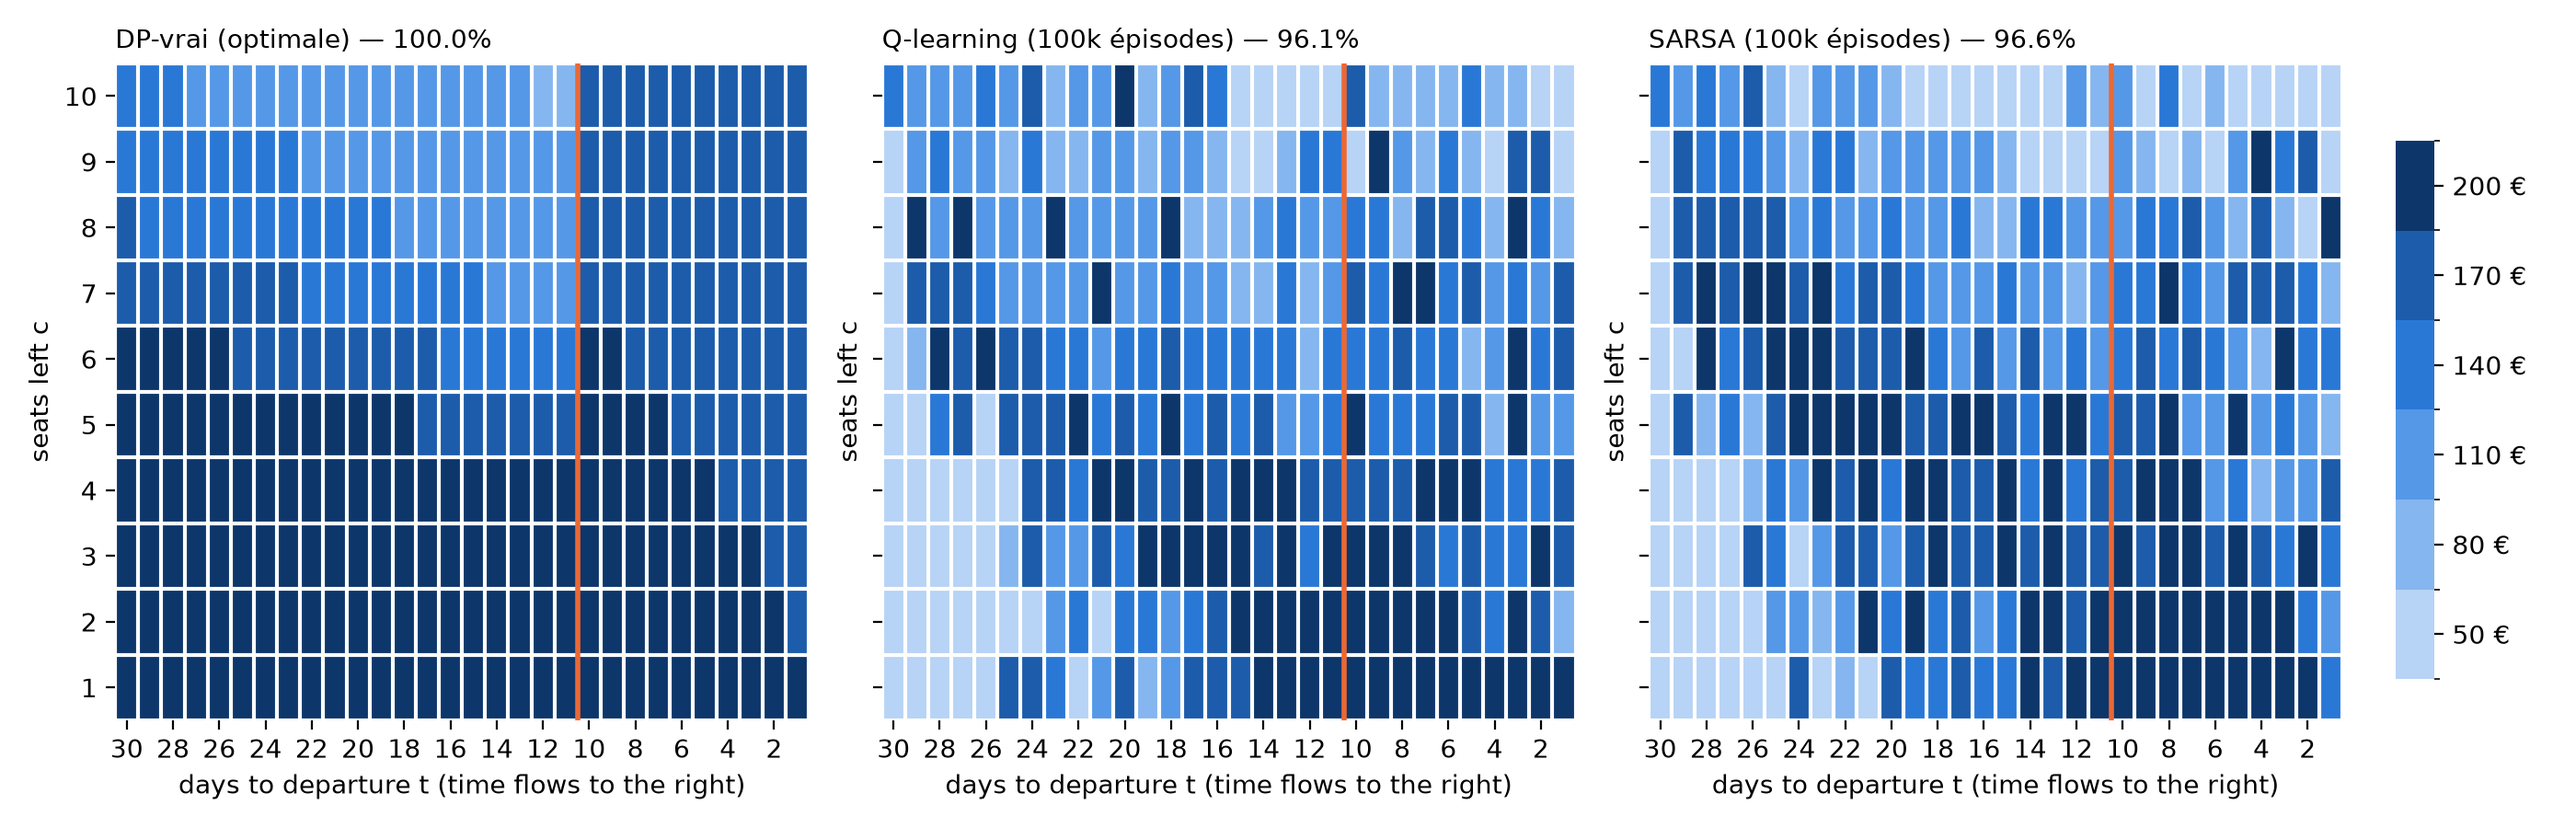
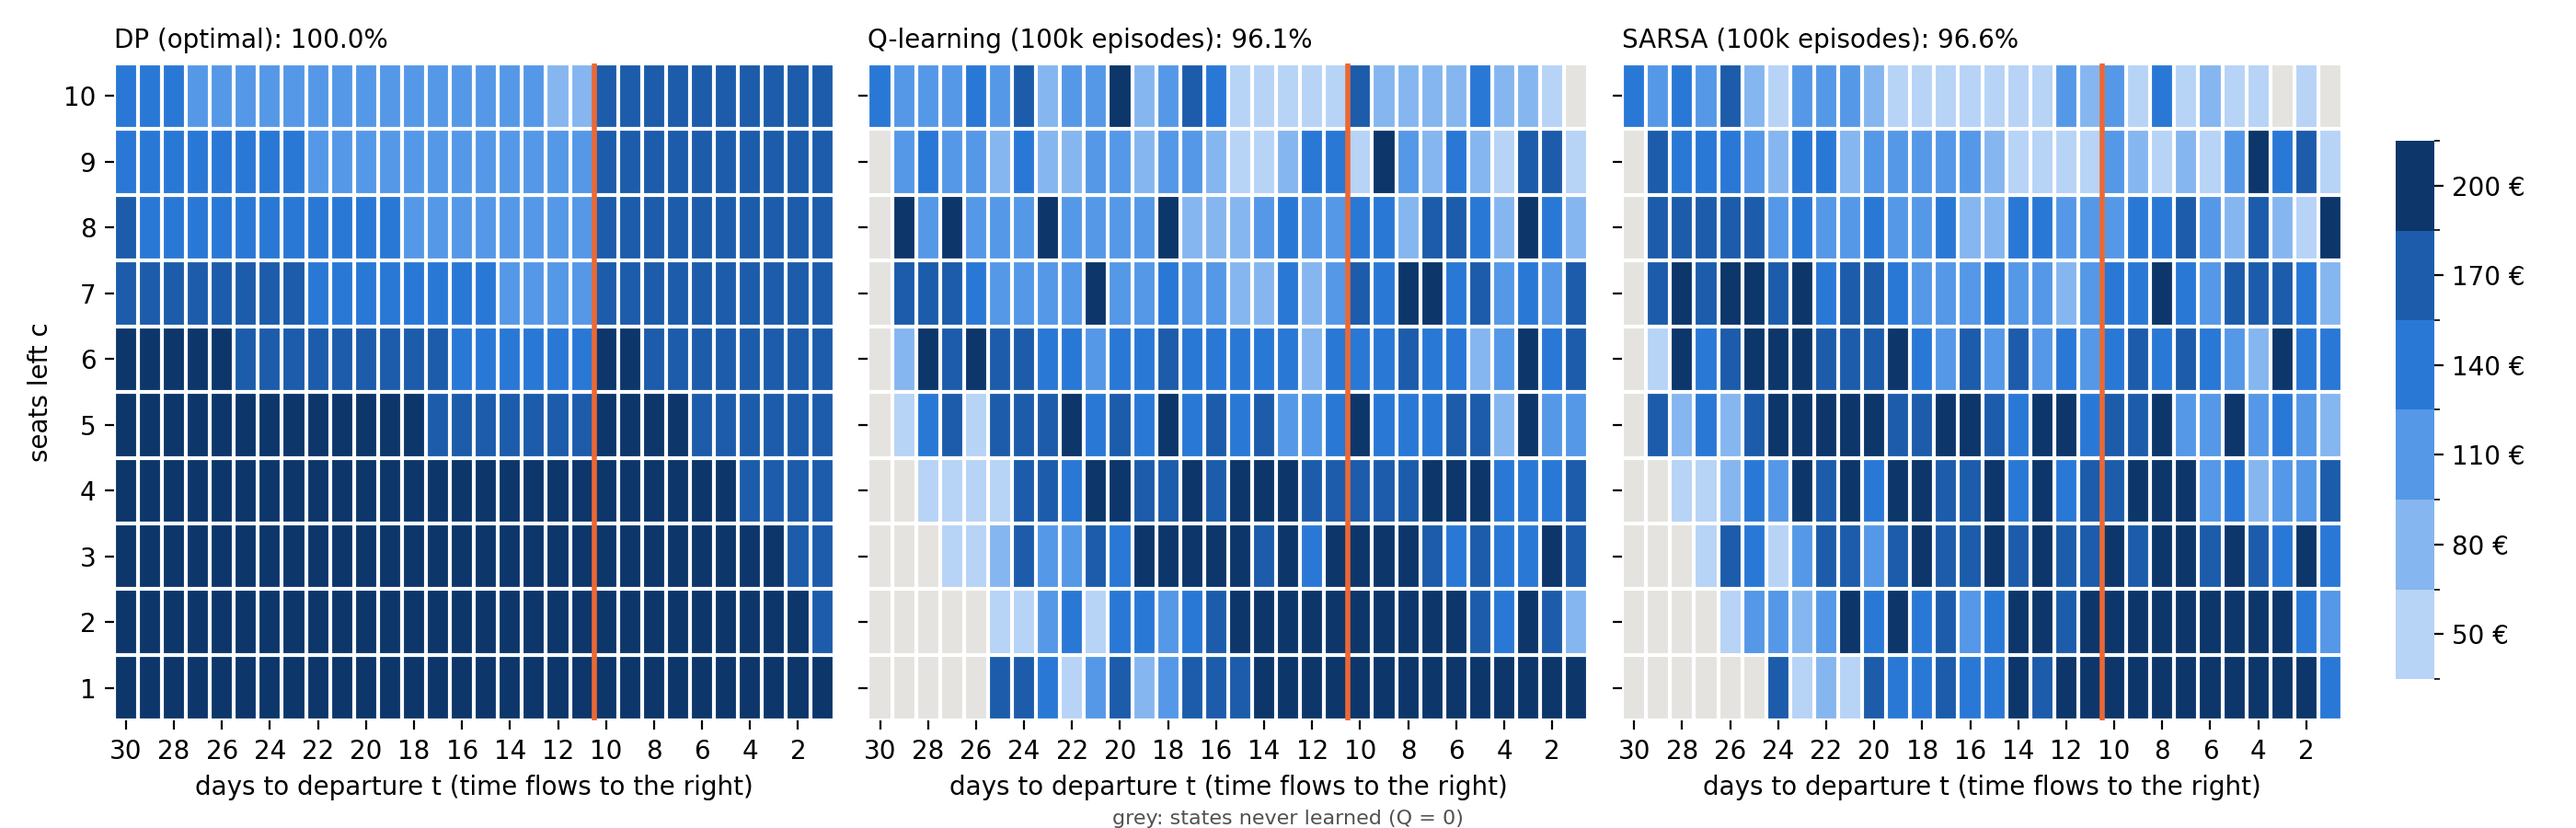
Review of the learning-side results: fix report claims, E4 on 10 seeds, English figures
- E2: correct the episode budgets at which RL beats the wrong-model DP.
- Report: RL plateaus at 96.4%, below the rising-price heuristic (97.7%);
  state the tuning criterion; avoid the t/T notation clash for alpha.
- E4: rerun Q-learning with 10 seeds (decision D5).
- E3: grey out states never learned (Q = 0).
- E1, E2, E3, E4 figures in English; E1 shows the rising-price reference
  and can be replotted from the saved results without retraining.

diff --git a/report/report.tex b/report/report.tex
@@ -53,7 +53,7 @@ We use $C=10$ seats: with 20, the plane almost never sells out and a myopic poli
 \textbf{DP.} Bellman optimality, $V^*(c,t)=\max_a \sum_{k} P(k\mid c,t,a)\,[p_a k+\gamma V^*(c-k,t-1)]$, with $V^*(c,0)=V^*(0,t)=0$.
 As $V^*(\cdot,t)$ only depends on $V^*(\cdot,t-1)$, one backward sweep is exact.
 \textbf{Model error.} The DP plans with both WTP means multiplied by $(1+x)$, $x\in[-50,+50]\,\%$ (an error on $\lambda$ costs at most 5\,\%).
-\textbf{Q-learning, SARSA.} Tabular, $Q=0$, $\varepsilon$-greedy with $\varepsilon$ decaying exponentially from 1 to 0.01 over the episode budget; $\alpha_t = 0.5/(1+40\,t/T)$ with $T$ the budget (a constant $\alpha$ does not converge in this stochastic environment: Q-values keep oscillating and the greedy action flips); they only interact with the simulator, never with the demand model.
+\textbf{Q-learning, SARSA.} Tabular, $Q=0$, $\varepsilon$-greedy with $\varepsilon$ decaying exponentially from 1 to 0.01 over the episode budget; $\alpha_n = 0.5/(1+40\,n/N)$ at episode $n$ of a budget of $N$ (a constant $\alpha$ does not converge in this stochastic environment: Q-values keep oscillating and the greedy action flips). These values were selected among 9 configurations by the best worst case over seeds. Both methods only interact with the simulator, never with the demand model.
 \textbf{Baselines.} Best fixed price; best linearly rising price.
 \textbf{Evaluation.} All policies are scored on the \emph{true} model by exact policy evaluation (cross-checked with 10\,000 simulated flights), as a percentage of the optimal revenue; learning methods use 10 seeds.
 Checks: the DP value lies in the 95\,\% confidence interval of its simulated revenue; no wrong-model DP or baseline beats it.
@@ -90,8 +90,8 @@ A rising price already reaches 97.7\,\% (Table~\ref{tab:main}), consistent with 
 
 \textbf{E2: tipping point between planning and learning} (Fig.~\ref{fig:e2}). The DP stays above 97\,\% for $|x|\le20\,\%$.
 Errors are asymmetric: underestimating the WTP ($x=-50\,\%$) drops DP to 75.8\,\% because seats sell out too cheaply, against 92.9\,\% at $+50\,\%$.
-Consequently, model-free RL beats wrong DP as soon as $x \le -40\,\%$ with merely $1\,000$ episodes, and at $x = -30\,\%$ with $10\,000$ episodes.
-Conversely, when WTP is overestimated, DP is resilient and RL only prevails for $x \ge +40\,\%$ with large budgets ($\ge 30\,000$ episodes).
+Model-free RL therefore beats the wrong DP (by more than 0.5 point) with $1\,000$ episodes at $x=-50\,\%$, $3\,000$ at $-40\,\%$ and $10\,000$ at $-30\,\%$.
+When the WTP is overestimated, the DP is more resilient: RL only wins at $+40\,\%$ ($30\,000$ episodes) and $+50\,\%$ ($10\,000$). For $-20\,\%\le x\le+30\,\%$, the DP wins or ties at every budget.
 
 \begin{figure}[t]
 \centering
@@ -101,14 +101,15 @@ Conversely, when WTP is overestimated, DP is resilient and RL only prevails for 
 \end{figure}
 
 \textbf{E4: discount factor.} A DP optimising a discounted criterion sells seats too early: with $\gamma=0.5$ it sells 6.8 seats before business customers arrive (4.1 with $\gamma=1$) and earns 83.7\,\% of the optimum (97.8\,\% with $\gamma=0.9$).
-Q-learning exhibits the exact same myopia, dropping from 95.7\,\% ($\gamma=1$) to 89.6\,\% ($\gamma=0.9$) and 74.2\,\% ($\gamma=0.5$), selling 7.1 seats prematurely.
+Q-learning (30\,000 episodes, 10 seeds) shows the same myopia: 95.6\,\% ($\gamma=1$), 89.7\,\% ($\gamma=0.9$) and 74.7\,\% ($\gamma=0.5$), selling 7.1 seats before business customers arrive.
 
-\textbf{E1 \& E3: learning budget and policy heatmaps.} Q-learning reaches 95\,\% of the optimum from 30\,000 episodes on average over 10 seeds (95.6\,\% $\pm$ 0.5), and both Q-learning and SARSA plateau at 96.4\,\% at 100\,000 episodes.
+\textbf{E1 \& E3: learning budget and policy heatmaps.} Q-learning reaches 95\,\% of the optimum from 30\,000 episodes on average over 10 seeds (95.6\,\% $\pm$ 0.5), and both Q-learning and SARSA plateau at 96.4\,\% at 100\,000 episodes, still below the rising-price heuristic (97.7\,\%).
 Off-policy Q-learning converges faster at intermediate budgets (93.6\,\% vs 91.0\,\% at 10k), while SARSA has lower variance at convergence (0.3 vs 0.7\,\%).
-Heatmaps confirm that RL captures the structure of the optimal policy but retains noise in rarely visited boundary states.
+Heatmaps show that RL captures the structure of the optimal policy; 21 of the 300 states (few seats left very early) are never learned because they are almost never reached, and rarely visited states remain noisy at little cost in revenue.
 
 \section{Conclusion}
-Learning outperforms planning only when model error exceeds 25--30\,\% in under-estimation or 40\,\% in over-estimation, given sufficient data ($\ge 10^4$ flights). When model error is moderate ($|x|\le20\,\%$) or data is scarce, planning with an imperfect model strictly beats model-free learning.
+Learning outperforms planning only for large model errors: an under-estimation of the WTP by 30\,\% or more (with $10^3$ to $10^4$ flights), or an over-estimation by 40\,\% or more ($10^4$ to $3\cdot10^4$ flights). For moderate errors ($-20\,\%\le x\le+30\,\%$) or scarce data, planning with an imperfect model beats model-free learning.
+Even with $10^5$ flights, tabular RL stays below a simple rising-price rule tuned on the true model: the value of planning (or of a good model) lies in the last few percent.
 \textbf{Limitations and perspective:} synthetic demand, one perturbed parameter, tabular methods; realistic aircraft would require value function approximation.
 
 {\small

diff --git a/experiments/e1_convergence.py b/experiments/e1_convergence.py
@@ -6,6 +6,7 @@ on entraîne Q-learning ET SARSA avec les mêmes hyperparamètres,
 puis on évalue EXACTEMENT la politique gloutonne sur le vrai modèle.
 
 Lancer depuis la racine du repo :  python experiments/e1_convergence.py
+(si results/e1_convergence.csv existe, la figure est seulement redessinée ; --rerun pour tout recalculer)
 Sorties : results/e1_convergence.csv  et  results/figures/e1_convergence.png
 """
 
@@ -23,6 +24,7 @@ ROOT = os.path.join(os.path.dirname(__file__), "..")
 sys.path.insert(0, os.path.join(ROOT, "src"))
 from demand import DemandModel  # noqa: E402
 from dp import solve_dp  # noqa: E402
+from baselines import best_rising_price  # noqa: E402
 from evaluate import evaluate_exact  # noqa: E402
 from qlearning import greedy_policy, train_qlearning  # noqa: E402
 from sarsa import train_sarsa  # noqa: E402
@@ -41,9 +43,12 @@ METHODS = {
     "sarsa": train_sarsa,
 }
 
+csv_path = os.path.join(ROOT, "results", "e1_convergence.csv")
+RERUN = "--rerun" in sys.argv or not os.path.exists(csv_path)
+
 rows = []
 t0 = time.time()
-for method_name, train_fn in METHODS.items():
+for method_name, train_fn in (METHODS.items() if RERUN else []):
     print(f"\n=== {method_name.upper()} ===")
     for budget in BUDGETS:
         pcts = []
@@ -58,13 +63,18 @@ for method_name, train_fn in METHODS.items():
         print(f"  budget={budget:>7} -> {np.mean(pcts):5.1f}% ± {np.std(pcts):4.1f} "
               f"(min {np.min(pcts):5.1f}%)  [{time.time() - t0:.0f}s]")
 
-# --- Sauvegarde CSV ---
+# --- Sauvegarde CSV (ou relecture si on ne fait que redessiner) ---
 os.makedirs(os.path.join(ROOT, "results", "figures"), exist_ok=True)
-csv_path = os.path.join(ROOT, "results", "e1_convergence.csv")
-with open(csv_path, "w", newline="") as f:
-    w = csv.DictWriter(f, fieldnames=rows[0].keys())
-    w.writeheader()
-    w.writerows(rows)
+if RERUN:
+    with open(csv_path, "w", newline="") as f:
+        w = csv.DictWriter(f, fieldnames=rows[0].keys())
+        w.writeheader()
+        w.writerows(rows)
+else:
+    with open(csv_path, encoding="utf-8") as f:
+        rows = [{"method": r["method"], "budget": int(r["budget"]), "seed": int(r["seed"]),
+                 "revenue": float(r["revenue"]), "pct_optimum": float(r["pct_optimum"])} for r in csv.DictReader(f)]
+    print(f"Figure redessinée à partir de {os.path.normpath(csv_path)} (--rerun pour tout recalculer)")
 
 # --- Figure comparative ---
 BLUE, ORANGE, GRID = "#2a78d6", "#e67e22", "#e4e3df"
@@ -76,21 +86,24 @@ for method_name, color, marker in [("qlearning", BLUE, "o"), ("sarsa", ORANGE, "
     stds = [np.std([r["pct_optimum"] for r in method_rows if r["budget"] == b]) for b in BUDGETS]
     ax.errorbar(BUDGETS, means, yerr=stds, color=color, linewidth=2,
                 marker=marker, markersize=6, markeredgecolor="white", markeredgewidth=1,
-                capsize=3, label=f"{method_name} (± 1σ, 10 seeds)")
+                capsize=3, label=f"{'Q-learning' if method_name == 'qlearning' else 'SARSA'} (mean ± 1 sd, 10 seeds)")
 
+rising_pct = 100 * best_rising_price(true_model)[1].revenue / optimum
+ax.axhline(rising_pct, color="#52514e", linewidth=1.2, linestyle=(0, (1, 2)))
+ax.text(BUDGETS[0], rising_pct + 0.3, f"best rising price: {rising_pct:.1f}%", fontsize=8, color="#52514e", va="bottom")
 ax.axhline(95, color="grey", linewidth=1, linestyle="--", alpha=0.6)
-ax.text(BUDGETS[0], 95.5, "95 % de l'optimum", fontsize=8, color="grey")
+ax.text(BUDGETS[0], 95.5, "95% of optimum", fontsize=8, color="grey")
 ax.axhline(100, color="grey", linewidth=0.8, linestyle=":", alpha=0.4)
 ax.set_xscale("log")
-ax.set_xlabel("Budget d'épisodes d'entraînement")
-ax.set_ylabel("Revenu (% de l'optimum DP-vrai)")
+ax.set_xlabel("training episodes (log scale)")
+ax.set_ylabel("revenue (% of optimum)")
 ax.set_ylim(55, 101)
 for s in ("top", "right"):
     ax.spines[s].set_visible(False)
 ax.spines["left"].set_color(GRID); ax.spines["bottom"].set_color(GRID)
 ax.grid(axis="y", color=GRID, linewidth=0.8); ax.set_axisbelow(True)
 ax.legend(frameon=False, fontsize=9)
-ax.set_title("E1 : Convergence Q-learning vs SARSA", loc="left", fontsize=10)
+ax.set_title("E1: learning curves of Q-learning and SARSA", loc="left", fontsize=10)
 fig.tight_layout()
 fig_path = os.path.join(ROOT, "results", "figures", "e1_convergence.png")
 fig.savefig(fig_path, dpi=200)

diff --git a/experiments/e2_crossover.py b/experiments/e2_crossover.py
@@ -94,13 +94,6 @@ else:
             rl_results[(method_name, budget)] = mean_pct
             print(f"  budget={budget:>7} -> {mean_pct:.1f}% ± {np.std(pcts):.1f}%  [{time.time()-t0:.0f}s]")
 
-        for x in ERRORS:
-            ql_pct = rl_results.get(("qlearning", budget), 0)
-            sa_pct = rl_results.get(("sarsa", budget), 0)
-            best_rl = max(ql_pct, sa_pct)
-            best_rl_name = "qlearning" if ql_pct >= sa_pct else "sarsa"
-            dp_pct = dp_results[x]
-            winner = best_rl_name if best_rl > dp_pct else "dp_faux"
 
 # Construire le CSV final avec toutes les combinaisons
 csv_rows = []
@@ -135,7 +128,7 @@ fig, ax = plt.subplots(figsize=(8.5, 4.5))
 errors_pct = 100 * ERRORS
 dp_curve = [dp_results[x] for x in ERRORS]
 ax.plot(errors_pct, dp_curve, color=RED, linewidth=2.5, marker="D", markersize=5,
-        markeredgecolor="white", markeredgewidth=1, label="DP avec modèle faux", zorder=3)
+        markeredgecolor="white", markeredgewidth=1, label="DP with wrong model", zorder=3)
 
 # Lignes horizontales Q-learning et SARSA pour quelques budgets clés
 styles = [(1_000, ":", 1.2), (3_000, "--", 1.5), (10_000, "--", 1.8), (30_000, "-", 2.0), (100_000, "-", 2.2)]
@@ -147,8 +140,8 @@ for budget, ls, lw in styles:
     ax.axhline(sa_pct, color=ORANGE, linewidth=lw, linestyle=ls, alpha=0.7)
     ax.text(errors_pct[-1] + 8, sa_pct, f"SA {budget//1000}k", fontsize=7, color=ORANGE, va="center")
 
-ax.set_xlabel("Erreur x sur la WTP dans le modèle (%)")
-ax.set_ylabel("Revenu (% de l'optimum)")
+ax.set_xlabel("error x on willingness to pay in the model (%)")
+ax.set_ylabel("revenue (% of optimum)")
 ax.set_ylim(60, 101)
 ax.set_xlim(errors_pct[0] - 2, errors_pct[-1] + 15)
 for s in ("top", "right"):
@@ -159,12 +152,12 @@ ax.grid(axis="y", color=GRID, linewidth=0.8); ax.set_axisbelow(True)
 # Légende
 from matplotlib.lines import Line2D  # noqa: E402
 legend_elements = [
-    Line2D([0], [0], color=RED, linewidth=2.5, marker="D", markersize=5, markeredgecolor="white", label="DP-faux"),
-    Line2D([0], [0], color=BLUE, linewidth=1.5, label="Q-learning (horizontal = indép. de x)"),
-    Line2D([0], [0], color=ORANGE, linewidth=1.5, label="SARSA (horizontal = indép. de x)"),
+    Line2D([0], [0], color=RED, linewidth=2.5, marker="D", markersize=5, markeredgecolor="white", label="DP with wrong model"),
+    Line2D([0], [0], color=BLUE, linewidth=1.5, label="Q-learning (does not depend on x)"),
+    Line2D([0], [0], color=ORANGE, linewidth=1.5, label="SARSA (does not depend on x)"),
 ]
 ax.legend(handles=legend_elements, frameon=False, fontsize=8, loc="lower left")
-ax.set_title("E2 : Point de bascule — DP-faux vs model-free", loc="left", fontsize=10)
+ax.set_title("E2: wrong-model DP vs model-free learning", loc="left", fontsize=10)
 fig.tight_layout()
 fig1_path = os.path.join(ROOT, "results", "figures", "e2_crossover.png")
 fig.savefig(fig1_path, dpi=200)
@@ -196,9 +189,10 @@ ax2.set_xticks(range(len(ERRORS)))
 ax2.set_xticklabels([f"{x:+.0%}" for x in ERRORS], fontsize=8)
 ax2.set_yticks(range(len(BUDGETS)))
 ax2.set_yticklabels([f"{b//1000}k" if b >= 1000 else str(b) for b in BUDGETS], fontsize=9)
-ax2.set_xlabel("Erreur x sur la WTP")
-ax2.set_ylabel("Budget d'épisodes (RL)")
-ax2.set_title("E2 : Qui gagne ? (rouge = DP-faux, bleu = model-free, jaune = ≈ égal)", loc="left", fontsize=9)
+ax2.set_xlabel("error x on willingness to pay")
+ax2.set_ylabel("training episodes (RL)")
+ax2.set_title("E2: best RL minus wrong-model DP (points of % of optimum)" + chr(10) +
+              "red = DP wins, blue = RL wins, yellow = within 0.5 point", loc="left", fontsize=9)
 
 # Annoter chaque case
 for i, budget in enumerate(BUDGETS):

diff --git a/experiments/e4_comparison.py b/experiments/e4_comparison.py
@@ -29,7 +29,7 @@ from evaluate import evaluate_exact  # noqa: E402
 from qlearning import greedy_policy, train_qlearning  # noqa: E402
 
 GAMMAS = [1.0, 0.9, 0.5]
-SEEDS = list(range(5))
+SEEDS = list(range(10))  # 10 seeds dès le premier lancement (décision D5)
 BUDGET = 30_000
 CAPACITY, HORIZON, SWITCH_DAY = 10, 30, 10
 
@@ -118,32 +118,32 @@ ql_pcts_mean = [np.mean([r["pct_optimum"] for r in rows if r["method"] == "Q-lea
 ql_pcts_std = [np.std([r["pct_optimum"] for r in rows if r["method"] == "Q-learning" and r["gamma"] == g]) for g in GAMMAS]
 
 # Panel 1: % de l'optimum
-ax1.bar(x - width/2, dp_pcts, width, label="DP", color="#c0392b", alpha=0.85)
-ax1.bar(x + width/2, ql_pcts_mean, width, yerr=ql_pcts_std, capsize=4, label=f"Q-learning ({BUDGET//1000}k)", color="#2a78d6", alpha=0.85)
-ax1.set_ylabel("Revenu (% de l'optimum gamma=1.0)")
-ax1.set_xlabel("Facteur d'actualisation gamma")
+ax1.bar(x - width/2, dp_pcts, width, label="DP", color="#c0392b")
+ax1.bar(x + width/2, ql_pcts_mean, width, yerr=ql_pcts_std, capsize=4, label=f"Q-learning ({BUDGET//1000}k episodes, 10 seeds)", color="#2a78d6")
+ax1.set_ylabel("Undiscounted revenue (% of optimum)")
+ax1.set_xlabel("Discount factor")
 ax1.set_xticks(x)
-ax1.set_xticklabels([f"gamma = {g}" for g in GAMMAS])
+ax1.set_xticklabels([f"γ = {g:g}" for g in GAMMAS])
 ax1.set_ylim(70, 105)
 ax1.legend(frameon=False)
 ax1.grid(axis="y", color="#e4e3df", linestyle="--")
-ax1.set_title("Impact de la myopie sur le revenu", fontsize=10, loc="left")
+ax1.set_title("Revenue lost by an impatient agent", fontsize=10, loc="left")
 
 # Panel 2: Sièges vendus avant t <= 10 (loisirs) vs après t <= 10 (affaires)
 dp_early = [r["sold_before_t10"] for r in rows if r["method"] == "DP"]
 ql_early = [np.mean([r["sold_before_t10"] for r in rows if r["method"] == "Q-learning" and r["gamma"] == g]) for g in GAMMAS]
 
-ax2.bar(x - width/2, dp_early, width, label="DP : sièges vendus tôt (t > 10)", color="#e67e22", alpha=0.85)
-ax2.bar(x + width/2, ql_early, width, label="QL : sièges vendus tôt (t > 10)", color="#27ae60", alpha=0.85)
-ax2.axhline(10, color="grey", linestyle=":", label="Capacité max (10 sièges)")
-ax2.set_ylabel("Nombre moyen de sièges vendus tôt")
-ax2.set_xlabel("Facteur d'actualisation gamma")
+ax2.bar(x - width/2, dp_early, width, label="DP", color="#c0392b")
+ax2.bar(x + width/2, ql_early, width, label="Q-learning", color="#2a78d6")
+ax2.axhline(10, color="grey", linestyle=":", label="capacity (10 seats)")
+ax2.set_ylabel("Seats sold before t = 10")
+ax2.set_xlabel("Discount factor")
 ax2.set_xticks(x)
-ax2.set_xticklabels([f"gamma = {g}" for g in GAMMAS])
+ax2.set_xticklabels([f"γ = {g:g}" for g in GAMMAS])
 ax2.set_ylim(0, 11)
 ax2.legend(frameon=False, fontsize=8)
 ax2.grid(axis="y", color="#e4e3df", linestyle="--")
-ax2.set_title("Ventes prématurées aux loisirs (myopie)", fontsize=10, loc="left")
+ax2.set_title("Seats sold before business customers arrive", fontsize=10, loc="left")
 
 for ax in (ax1, ax2):
     for s in ("top", "right"):

diff --git a/experiments/e3_policy_heatmaps.py b/experiments/e3_policy_heatmaps.py
@@ -40,6 +40,11 @@ Q_sa = train_sarsa(true_model, n_episodes=BUDGET, alpha=ALPHA, alpha_decay=ALPHA
 # Construire les tables de politique pour Q-learning et SARSA
 ql_table = np.argmax(Q_ql, axis=2)
 sa_table = np.argmax(Q_sa, axis=2)
+# États sans aucune information apprise (Q = 0 pour toutes les actions) : l'argmax y vaut 0
+# (50 €) par défaut, ce qui n'est pas un choix de l'agent ; on les grise dans la figure.
+ql_unseen = np.all(Q_ql == 0, axis=2)
+sa_unseen = np.all(Q_sa == 0, axis=2)
+print(f"États non appris : Q-learning {ql_unseen[1:, 1:].sum()} / 300, SARSA {sa_unseen[1:, 1:].sum()} / 300")
 
 # Évaluer
 from dp import as_policy  # noqa: E402
@@ -55,13 +60,16 @@ print(f"SARSA    : {100*ev_sa.revenue/optimum:.1f}% | load={100*ev_sa.load_facto
 fig, axes = plt.subplots(1, 3, figsize=(14, 4.5), sharey=True)
 
 titles = [
-    f"DP-vrai (optimale) — {100*ev_dp.revenue/optimum:.1f}%",
-    f"Q-learning ({BUDGET//1000}k épisodes) — {100*ev_ql.revenue/optimum:.1f}%",
-    f"SARSA ({BUDGET//1000}k épisodes) — {100*ev_sa.revenue/optimum:.1f}%",
+    f"DP (optimal): {100*ev_dp.revenue/optimum:.1f}%",
+    f"Q-learning ({BUDGET//1000}k episodes): {100*ev_ql.revenue/optimum:.1f}%",
+    f"SARSA ({BUDGET//1000}k episodes): {100*ev_sa.revenue/optimum:.1f}%",
 ]
 
-for ax, table, title in zip(axes, [dp_table, ql_table, sa_table], titles):
-    plot_policy(table, ax=ax, colorbar=False, title=title)
+for ax, table, unseen, title in zip(axes, [dp_table, ql_table, sa_table], [None, ql_unseen, sa_unseen], titles):
+    plot_policy(table, ax=ax, colorbar=False, title=title, unseen=unseen)
+for ax in axes[1:]:
+    ax.set_ylabel("")
+fig.text(0.5, 0.005, "grey: states never learned (Q = 0)", ha="center", fontsize=8, color="#52514e")
 
 # Colorbar commune
 fig.tight_layout(rect=(0, 0, 0.92, 1))
